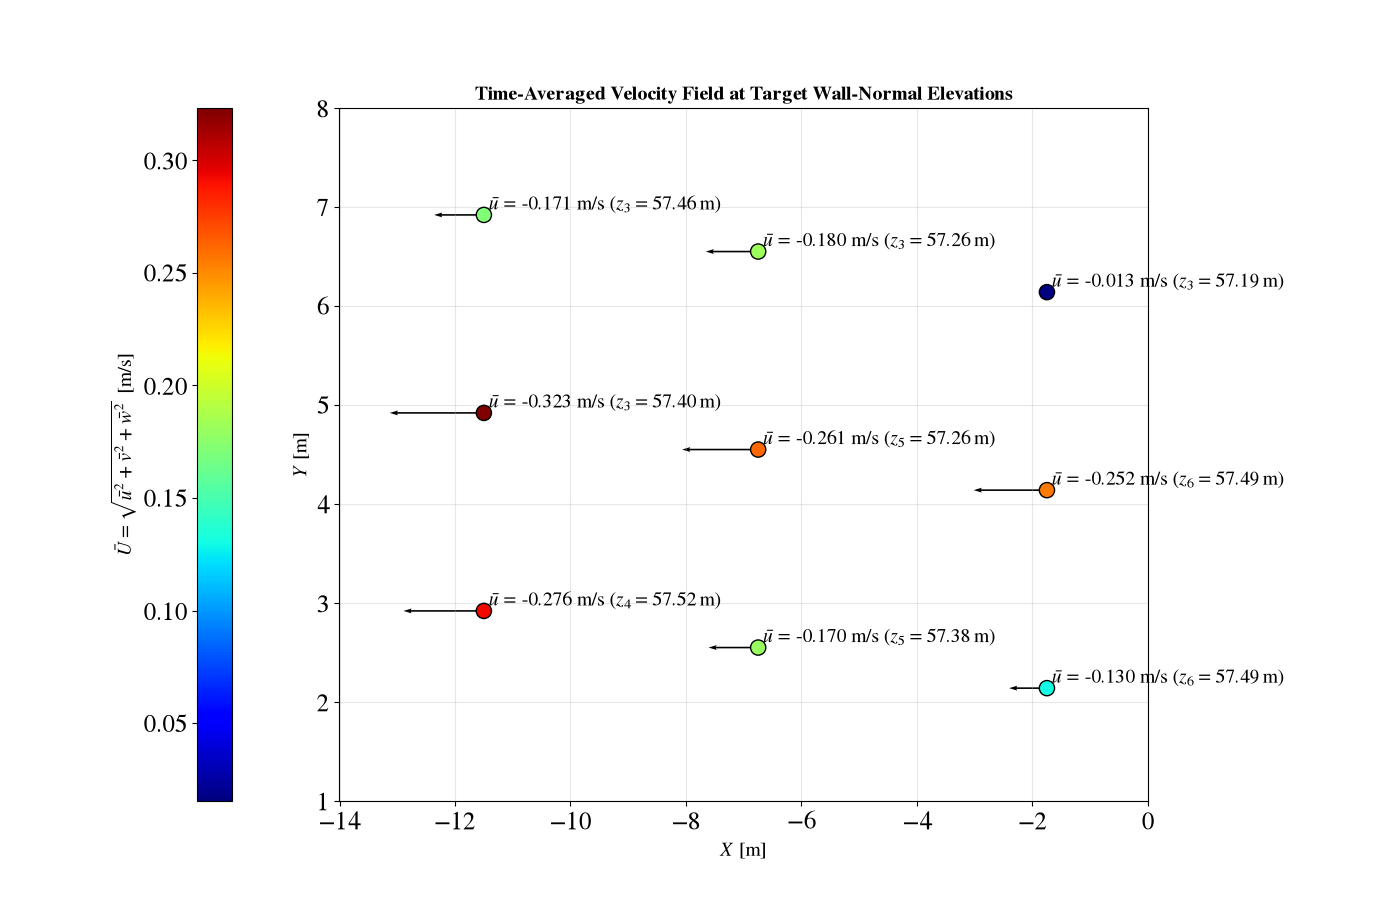
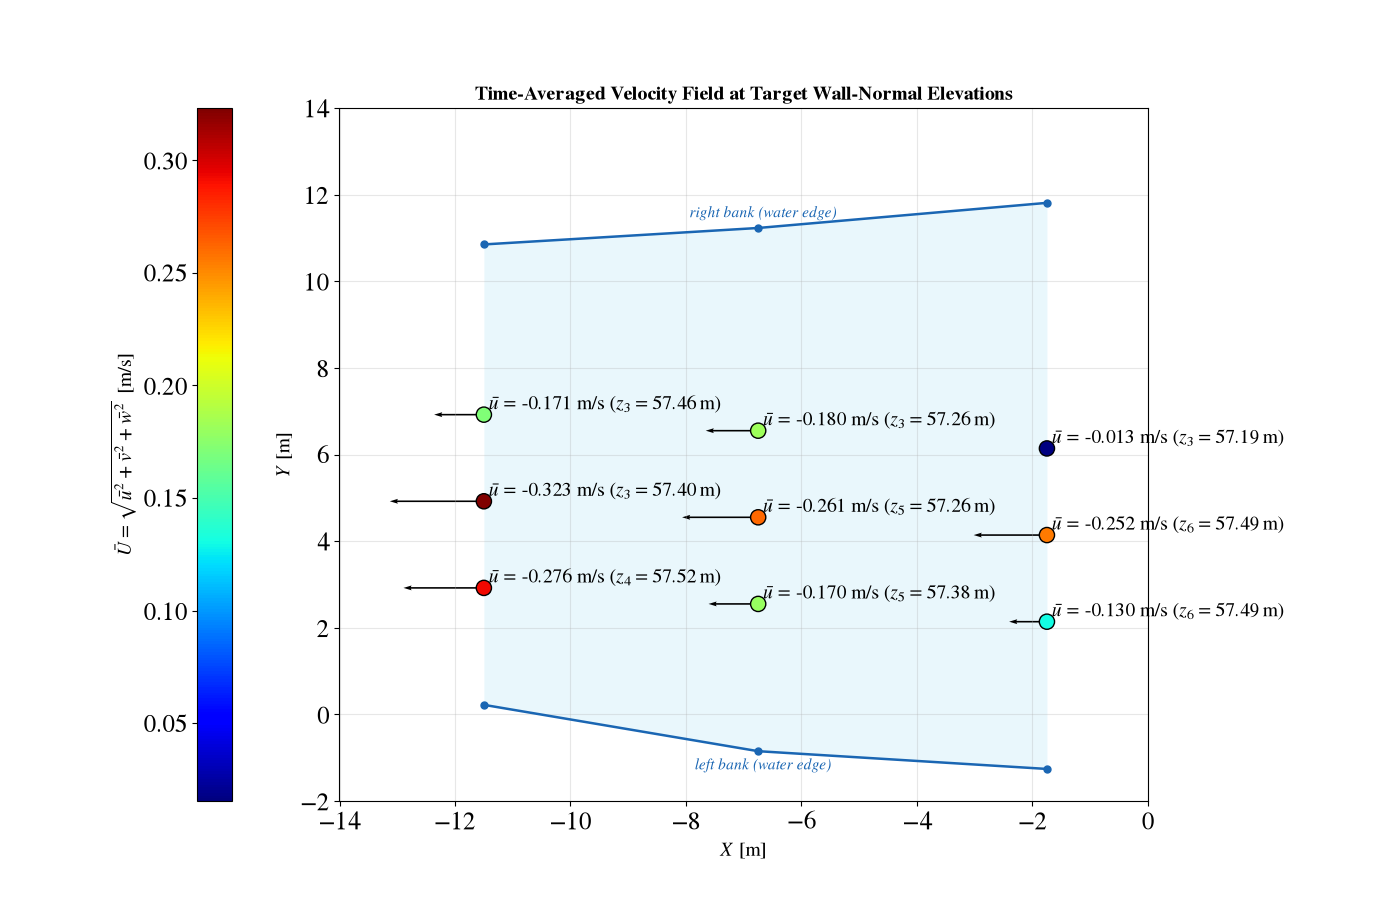
Add log-law and Reynolds-stress shear velocity; water edges and instruments in plots
- loglaw.py: least-squares fit of the log law of the wall (u_tau, z0, R^2)
- turbulence.py: Reynolds shear stress with tilt rotation (mean W = 0)
- main_ADV.py: compute_loglaw_fit (center verticals, optional exclude) and
  compute_reynolds_shear_velocity (X1Y2, -<u'w'> = u_tau^2 (1 - z/h))
- plotting_site.py: surveyed water edges of both banks, used in the ADV and
  ADCP planforms; ADCP planform also shows the instrument positions
- README: new modules, methods and limitations; updated figures

diff --git a/code/main_ADV.py b/code/main_ADV.py
@@ -1,8 +1,7 @@
-"""Python port of main.m — ADV June 2026 mean velocity field (Misery site).
+"""ADV June 2026 analysis (Misery site): mean velocity field, discharge, shear velocity.
 
 Run from the project folder (Misery/):
-    poetry run python code/main.py                 # show figures
-    poetry run python code/main.py --save-dir out  # also save PNGs
+    poetry run python code/main_ADV.py
 """
 
 import argparse
@@ -15,6 +14,8 @@ import pandas as pd
 
 from misery.discharge import depth_averaged_velocity, section_discharge
 from misery.filters import mPST_ADVSpikeFilter
+from misery.loglaw import KAPPA, fit_log_law
+from misery.turbulence import reynolds_shear_stress
 from misery.plotting_ADV import plot_3d_field, plot_planform
 
 X = [-1.75, -6.75, -11.5]
@@ -25,7 +26,8 @@ Z_b1 = [57.02, 57.02, 57.02]
 Z_b2 = [57.01, 56.89, 57.09]
 Z_b3 = [57.25, 57.23, 57.29]
 Z_s = [0.02, 0.07, 0.17, 0.27, 0.37, 0.47, 0.57]
-DSWL = 57.76
+DSWL = 57.76 # downstream water level [m]
+# Y of the water edge on the left bank at X1, X2, X3 [m]
 Y_leftbank_edge = [-1.26, -0.85, +0.22]
 # Y of the water edge on the right bank at X1, X2, X3 [m]
 Y_rightbank_edge = [11.81, 11.23, 10.85]
@@ -128,6 +130,59 @@ def compute_discharge(ParentDataset):
     return DischargeTable
 
 
+def compute_loglaw_fit(ParentDataset, yIdx=2, exclude=(), stations=(1, 2, 3)):
+    """u_tau and z0 at each X station from the log law of the wall, fitted to the vertical yIdx
+    (default 2, the center of the channel).
+
+    z is the height above the bed (Z_s), not the global elevation. The ADV u is negative
+    (flow towards -X), so -u is fitted. Points listed in exclude (e.g. "x1y2z1") are left out.
+    """
+    rows = []
+    for xIdx in stations:
+        prefix = f"x{xIdx}y{yIdx}z"
+        points = sorted((Z_s[int(name[5:]) - 1], -np.nanmean(ds["u"]))
+                        for name, ds in ParentDataset.items()
+                        if name.startswith(prefix) and name not in exclude)
+        z, U = map(np.array, zip(*points))
+        u_tau, z0, r2 = fit_log_law(z, U)
+        rows.append({
+            "Vertical": f"X{xIdx}Y{yIdx}", "X_m": X[xIdx - 1], "Y_m": [Y1, Y2, Y3][xIdx - 1][yIdx - 1],
+            "h_m": W_d[xIdx - 1][yIdx - 1], "N_points": len(z), "z_range_m": f"{z.min():.2f}-{z.max():.2f}",
+            "u_tau_m/s": u_tau, "z0_m": z0, "ks_m (=30 z0)": 30 * z0, "R2": r2,
+        })
+
+    LogLawTable = pd.DataFrame(rows)
+    print(f"--- Log-law fit U/u_tau = (1/kappa) ln(z/z0), kappa = {KAPPA}, z above the bed ---")
+    print(LogLawTable.to_string(index=False, float_format=lambda x: f"{x:.4f}"))
+    return LogLawTable
+
+
+def compute_reynolds_shear_velocity(ParentDataset, xIdx=1, yIdx=2, exclude=("x1y2z1",)):
+    """u_tau from the Reynolds shear stress at each point of one vertical (default X1Y2).
+
+    In uniform open-channel flow the shear stress falls linearly from the bed to the surface,
+    -<u'w'> = u_tau^2 (1 - z/h), so each point gives u_tau = sqrt(-<u'w'> / (1 - z/h)).
+    The streamwise velocity is -u (flow towards -X); the axes are rotated so that W = 0.
+    """
+    h = W_d[xIdx - 1][yIdx - 1]
+    rows = []
+    for name in sorted(ParentDataset):
+        if not name.startswith(f"x{xIdx}y{yIdx}z") or name in exclude:
+            continue
+        ds = ParentDataset[name]
+        z = Z_s[int(name[5:]) - 1]
+        tau, tilt = reynolds_shear_stress(-ds["u"], ds["w"])
+        rows.append({
+            "Point": name, "z_m": z, "z/h": z / h, "U_m/s": -np.nanmean(ds["u"]), "tilt_deg": tilt,
+            "-u'w'_m2/s2": tau, "u_tau_m/s": np.sqrt(max(tau, 0) / (1 - z / h)),
+        })
+
+    ReynoldsTable = pd.DataFrame(rows)
+    print(f"--- u_tau from the Reynolds shear stress at X{xIdx}Y{yIdx} (h = {h} m) ---")
+    print(ReynoldsTable.to_string(index=False, float_format=lambda x: f"{x:.4g}"))
+    return ReynoldsTable
+
+
 def main():
     # parser = argparse.ArgumentParser(description=__doc__, formatter_class=argparse.RawDescriptionHelpFormatter)
     # parser.add_argument("--save-dir", type=Path, help="folder to save the figures as PNG")
@@ -136,8 +191,14 @@ def main():
 
     ParentDataset = load_dataset()
     fig1 = plot_3d_field(ParentDataset, Y1, Y2, Y3)
-    fig2, _ = plot_planform(ParentDataset)
+    fig2, _ = plot_planform(ParentDataset, water_edges=(X, Y_leftbank_edge, Y_rightbank_edge))
     DischargeTable = compute_discharge(ParentDataset)
+    LogLawTable = compute_loglaw_fit(ParentDataset)
+    # Near-bed points with ~zero mean and low std (probe at the bed) or low beam correlation:
+    # LogLawTable = compute_loglaw_fit(ParentDataset, exclude=("x1y2z1", "x2y2z1", "x2y2z2", "x3y2z1"))
+    # Final estimate: X1Y2 only, without the near-bed point (bed in the sampling volume)
+    LogLawX1Y2 = compute_loglaw_fit(ParentDataset, exclude=("x1y2z1",), stations=(1,))
+    ReynoldsTable = compute_reynolds_shear_velocity(ParentDataset)
 
     # if args.save_dir:
     #     args.save_dir.mkdir(parents=True, exist_ok=True)

diff --git a/src/misery/plotting_ADCP.py b/src/misery/plotting_ADCP.py
@@ -4,6 +4,8 @@ import matplotlib.pyplot as plt
 import numpy as np
 from matplotlib.colors import TwoSlopeNorm
 
+from misery.plotting_site import draw_water_edges
+
 # LaTeX-like look without requiring a TeX installation (same style as plotting_ADV)
 plt.rcParams.update(
     {
@@ -50,13 +52,16 @@ def plot_U_profiles(ADCPDataset, ax=None, theta_deg=BEAM_ANGLE_DEG, water_level=
     return ax
 
 
-def plot_U_planform(ADCPDataset, ax=None, arrow_scale=1.0):
+def plot_U_planform(ADCPDataset, ax=None, arrow_scale=1.0, water_edges=None):
     """Planform map (X horizontal, Y vertical): cells coloured by U, arrows show (U, V).
 
     arrow_scale : arrow length [m] drawn for a velocity of 1 m/s.
+    water_edges : optional (X, Y_left, Y_right) of the water edges on both banks.
     """
     if ax is None:
         _, ax = plt.subplots(figsize=(10, 8))
+    if water_edges is not None:
+        draw_water_edges(ax, *water_edges)
 
     X = ADCPDataset["X_m[m]"].to_numpy()
     Y = ADCPDataset["Y_m[m]"].to_numpy()
@@ -73,12 +78,15 @@ def plot_U_planform(ADCPDataset, ax=None, arrow_scale=1.0):
     cb = plt.colorbar(sc, ax=ax)
     cb.set_label(r"$U\ \mathrm{[m/s]}$", fontsize=14)
     for station, d in ADCPDataset.groupby("Station"):
-        ax.text(d["X_m[m]"].iloc[0], d["Y_m[m]"].min() - 0.3, station,
+        X0, Y0 = d["X_m[m]"].iloc[0], instrument_position(d)
+        ax.plot(X0, Y0, marker="D", markersize=11, color=STATION_COLORS.get(station),
+                markeredgecolor="k", zorder=5)
+        ax.text(X0, min(d["Y_m[m]"].min(), Y0) - 0.3, station,
                 ha="center", va="top", fontsize=12, fontweight="bold")
 
     ax.set_xlabel(r"$X\ \mathrm{[m]}$", fontsize=14)
     ax.set_ylabel(r"$Y\ \mathrm{[m]}$", fontsize=14)
-    ax.set_title(r"Planform of $U$ (arrows: $U$, $V$)", fontsize=14, fontweight="bold")
+    ax.set_title(r"Planform of $U$ (arrows: $U$, $V$; diamond = instrument)", fontsize=14, fontweight="bold")
     ax.grid(True, alpha=0.3)
     ax.margins(x=0.15, y=0.05)
     ax.tick_params(labelsize=12)
@@ -131,16 +139,17 @@ def plot_beam_elevation(ADCPDataset, water_level, ax=None):
     return ax
 
 
-def plot_ADCP_U(ADCPDataset, water_level=None):
+def plot_ADCP_U(ADCPDataset, water_level=None, water_edges=None):
     """Lateral U profiles and planform map; with a water level, also the beam elevation view.
 
     water_level : water-surface elevation [m] (e.g. DSWL), in the same datum as Z_m[m].
+    water_edges : optional (X, Y_left, Y_right) water edges drawn on the planform map.
     """
     if water_level is None:
         fig, (ax1, ax2) = plt.subplots(1, 2, figsize=(18, 7), num="ADCP U velocity",
                                        gridspec_kw={"width_ratios": [1.2, 1]})
         plot_U_profiles(ADCPDataset, ax=ax1)
-        plot_U_planform(ADCPDataset, ax=ax2)
+        plot_U_planform(ADCPDataset, ax=ax2, water_edges=water_edges)
         fig.tight_layout()
         return fig
 
@@ -151,6 +160,6 @@ def plot_ADCP_U(ADCPDataset, water_level=None):
     ax2 = fig.add_subplot(gs[:, 1])
     plot_U_profiles(ADCPDataset, ax=ax1, water_level=water_level)
     plot_beam_elevation(ADCPDataset, water_level, ax=ax3)
-    plot_U_planform(ADCPDataset, ax=ax2)
+    plot_U_planform(ADCPDataset, ax=ax2, water_edges=water_edges)
     fig.tight_layout()
     return fig

diff --git a/src/misery/plotting_site.py b/src/misery/plotting_site.py
@@ -1,0 +1,29 @@
+"""Site features shared by the ADV and ADCP plots."""
+
+import numpy as np
+
+WATER_COLOR = (0.30, 0.75, 0.93)
+EDGE_COLOR = (0.1, 0.4, 0.7)
+
+
+def draw_water_edges(ax, X, Y_left, Y_right, label=True):
+    """Planform (X horizontal, Y vertical): water edges on both banks at the surveyed stations,
+    connected by lines, with the wetted area shaded in between.
+
+    X       : streamwise positions of the stations [m]
+    Y_left  : Y of the water edge on the left bank at each station [m]
+    Y_right : Y of the water edge on the right bank at each station [m]
+    """
+    order = np.argsort(X)
+    X, Y_left, Y_right = (np.asarray(a, float)[order] for a in (X, Y_left, Y_right))
+
+    ax.fill_between(X, Y_left, Y_right, color=WATER_COLOR, alpha=0.12, linewidth=0, zorder=0)
+    for Y, name in ((Y_left, "left"), (Y_right, "right")):
+        ax.plot(X, Y, "-o", color=EDGE_COLOR, linewidth=1.8, markersize=5, zorder=2,
+                label="water edge" if (label and name == "left") else None)
+    if label:
+        x_mid = X.mean()
+        ax.text(x_mid, np.interp(x_mid, X, Y_left) - 0.15, "left bank (water edge)", ha="center", va="top",
+                fontsize=11, color=EDGE_COLOR, style="italic")
+        ax.text(x_mid, np.interp(x_mid, X, Y_right) + 0.15, "right bank (water edge)", ha="center",
+                va="bottom", fontsize=11, color=EDGE_COLOR, style="italic")

diff --git a/src/misery/plotting_ADV.py b/src/misery/plotting_ADV.py
@@ -6,6 +6,8 @@ import matplotlib.pyplot as plt
 import numpy as np
 import pandas as pd
 
+from misery.plotting_site import draw_water_edges
+
 # LaTeX-like look without requiring a TeX installation (MATLAB 'Interpreter','latex')
 plt.rcParams.update(
     {
@@ -131,9 +133,10 @@ def plot_3d_field(ParentDataset, Y1, Y2, Y3):
     return fig
 
 
-def plot_planform(ParentDataset):
+def plot_planform(ParentDataset, water_edges=None):
     """Planform time-averaged velocity at the target elevations (Figure 2 of main.m).
 
+    water_edges : optional (X, Y_left, Y_right) of the water edges on both banks.
     Also prints and returns the summary table.
     """
     # 1. Target grid matrix [xIdx, yIdx] -> zIdx
@@ -185,6 +188,8 @@ def plot_planform(ParentDataset):
     fig, ax = plt.subplots(num="Time-Averaged Velocity Field at Selected Z", facecolor="w", figsize=(14, 9))
     fig.subplots_adjust(left=0.05, right=0.82)  # leave room on the right for the point labels
     ax.grid(True, alpha=0.3)
+    if water_edges is not None:
+        draw_water_edges(ax, *water_edges)
 
     # Quiver of planar vectors (U_bar, 0); MATLAB scale factor 0.5
     V_zero = np.zeros_like(U_timeAvg)

diff --git a/src/misery/turbulence.py b/src/misery/turbulence.py
@@ -1,0 +1,23 @@
+"""Turbulence statistics from ADV time series."""
+
+import numpy as np
+
+
+def reynolds_shear_stress(u, w, rotate=True):
+    """Kinematic Reynolds shear stress -<u'w'> [m^2/s^2] at one sampling point.
+
+    u : streamwise velocity time series [m/s] (flow direction positive)
+    w : vertical velocity time series [m/s]
+
+    With rotate=True, the (u, w) axes are first rotated by theta = atan(W/U) so that the
+    mean vertical velocity is zero; this removes the effect of a small probe tilt, which
+    otherwise mixes the normal stresses u'u' and w'w' into u'w'.
+
+    Returns -<u'w'> and the rotation angle theta [deg].
+    """
+    ok = ~np.isnan(u) & ~np.isnan(w)
+    u, w = np.asarray(u, float)[ok], np.asarray(w, float)[ok]
+    theta = np.arctan2(w.mean(), u.mean()) if rotate else 0.0
+    ur = u * np.cos(theta) + w * np.sin(theta)
+    wr = -u * np.sin(theta) + w * np.cos(theta)
+    return -np.mean((ur - ur.mean()) * (wr - wr.mean())), np.degrees(theta)

diff --git a/code/main_ADCP.py b/code/main_ADCP.py
@@ -24,6 +24,10 @@ dataFolder = Path(__file__).resolve().parent.parent / "dataset" / "ADCP Data - J
 X = [-1.75, -6.75, -11.5]
 Z = [57.66, 57.63, 57.52]
 DSWL = 57.76  # downstream water level [m]
+# Y of the water edge on the left bank at X1, X2, X3 [m]
+Y_leftbank_edge = [-1.26, -0.85, +0.22]
+# Y of the water edge on the right bank at X1, X2, X3 [m]
+Y_rightbank_edge = [11.81, 11.23, 10.85]
 
 # Instrument orientation (facing downstream): +1 = left bank, -1 = right bank.
 # On the right bank the instrument is turned 180 deg about the vertical axis, so its X and Y
@@ -104,7 +108,7 @@ def main():
     print(f"--- ADCP velocities per cell (method: {SAMPLE_METHOD}) ---")
     print(ADCPDataset.to_string(index=False, float_format=lambda x: f"{x:.3f}"))
 
-    fig = plot_ADCP_U(ADCPDataset, water_level=DSWL)
+    fig = plot_ADCP_U(ADCPDataset, water_level=DSWL, water_edges=(X, Y_leftbank_edge, Y_rightbank_edge))
     plt.show()
     return ADCPDataset
 

diff --git a/src/misery/loglaw.py b/src/misery/loglaw.py
@@ -1,0 +1,23 @@
+"""Fit of the logarithmic law of the wall to a mean velocity profile."""
+
+import numpy as np
+
+KAPPA = 0.39  # von Karman constant
+
+
+def fit_log_law(z, u, kappa=KAPPA):
+    """Least-squares fit of  u / u_tau = (1/kappa) ln(z / z0)  to one vertical.
+
+    z : heights of the measured points above the bed [m]
+    u : time-averaged streamwise velocity at those heights [m/s] (flow direction positive)
+
+    The law is linear in ln z:  u = a ln z + b,  with  a = u_tau / kappa  and  b = -a ln z0,
+    so u_tau = kappa * a and z0 = exp(-b / a).
+
+    Returns u_tau [m/s], z0 [m] and R^2 of the fit.
+    """
+    z, u = np.asarray(z, float), np.asarray(u, float)
+    a, b = np.polyfit(np.log(z), u, 1)
+    u_fit = a * np.log(z) + b
+    r2 = 1 - np.sum((u - u_fit) ** 2) / np.sum((u - u.mean()) ** 2)
+    return kappa * a, np.exp(-b / a), r2

diff --git a/README.md b/README.md
@@ -20,8 +20,11 @@ Misery/
 ├── src/misery/               # installable package (reusable functions)
 │   ├── filters.py            # mPST_ADVSpikeFilter — ADV despiking
 │   ├── discharge.py          # velocity–area discharge from verticals
+│   ├── loglaw.py             # log-law fit: shear velocity u_tau and roughness z0
+│   ├── turbulence.py         # Reynolds shear stress from ADV time series
 │   ├── plotting_ADV.py       # 3D velocity field and planform plots (ADV)
-│   └── plotting_ADCP.py      # lateral U profiles and planform map (ADCP)
+│   ├── plotting_ADCP.py      # lateral U profiles, beam elevation and planform map (ADCP)
+│   └── plotting_site.py      # site features shared by the plots (river water edges)
 ├── Doc_Figures/              # figures
 ├── pyproject.toml            # dependencies (Poetry)
 ├── LICENSE                   # CC BY-NC-SA 4.0
@@ -85,12 +88,20 @@ Interactive Window, where `ParentDataset` (ADV) and `ADCPDataset` (ADCP) stay in
    bed elevations, heights above the bed).
 5. **Plot**:
    - 3D view of all sampling points, mean velocity vectors, bed and water surface;
-   - planform of time-averaged velocity at selected heights, with a summary table.
+   - planform of time-averaged velocity at selected heights, with a summary table and the
+     surveyed water edges of both banks (`water_edges`).
 6. **Discharge** (`compute_discharge`, velocity–area method):
    - each vertical is depth-averaged, `ū = (1/h) ∫ u dz`, with u = 0 at the bed and the top
      measured velocity held constant to the surface (trapezoidal rule); `q = ū·h`;
    - the unit discharges are integrated across the section, `Q = ∫ q dy`, with q = 0 at the
      water edges `Y_leftbank_edge` and `Y_rightbank_edge`, varying linearly in between.
+7. **Shear velocity and bed roughness** at the center verticals (Y2):
+   - `compute_loglaw_fit` fits the log law of the wall, `U/u_τ = (1/κ) ln(z/z0)` (κ = 0.39,
+     z = height above the bed), by least squares in ln z, and reports u_τ, z0, `k_s ≈ 30 z0`
+     and R². Unreliable points can be left out with `exclude` (e.g. `"x1y2z1"`).
+   - `compute_reynolds_shear_velocity` estimates u_τ independently from the Reynolds shear
+     stress, `−⟨u'w'⟩ = u_τ² (1 − z/h)`, after rotating the (u, w) axes at each point so that
+     the mean vertical velocity is zero (removes the effect of probe tilt).
 
 ### ADCP (`main_ADCP.py`)
 
@@ -117,7 +128,8 @@ Interactive Window, where `ParentDataset` (ADV) and `ADCPDataset` (ADCP) stay in
 6. **Plot** (`plotting_ADCP.plot_ADCP_U(ADCPDataset, water_level=DSWL)`):
    - lateral profiles of U with ±σ_U bands (legend: position and depth below the surface);
    - beam elevation view (Y–Z): water surface, each instrument and its beam, cells coloured by U;
-   - planform map coloured by U with (U, V) arrows.
+   - planform map coloured by U with (U, V) arrows, the instrument positions and the
+     surveyed water edges of both banks (`water_edges`).
 
 ## Notes and known limitations
 
@@ -128,6 +140,12 @@ Interactive Window, where `ParentDataset` (ADV) and `ADCPDataset` (ADCP) stay in
   the three stations are not taken at the same relative depth.
 - Discharge: with only three verticals per section, 33–44% of Q comes from the segments
   between the outer verticals and the water edges, where q is assumed to fall linearly to zero.
+- Log law: several near-bed ADV points are unreliable (bed inside the sampling volume, or beam
+  correlation below 70%) and strongly affect the fit. X1Y2 is the only vertical with enough
+  reliable points (z = 0.07–0.47 m); there the log law gives u_τ ≈ 0.020 m/s and z0 ≈ 0.0045 m,
+  and the Reynolds stress (z ≤ 0.27 m) gives u_τ ≈ 0.014 m/s. Above z ≈ 0.3 m the shear stress
+  increases with height (flow downstream of the barrier is not uniform), so those points are
+  not used.
 
 ## Work in progress
 
